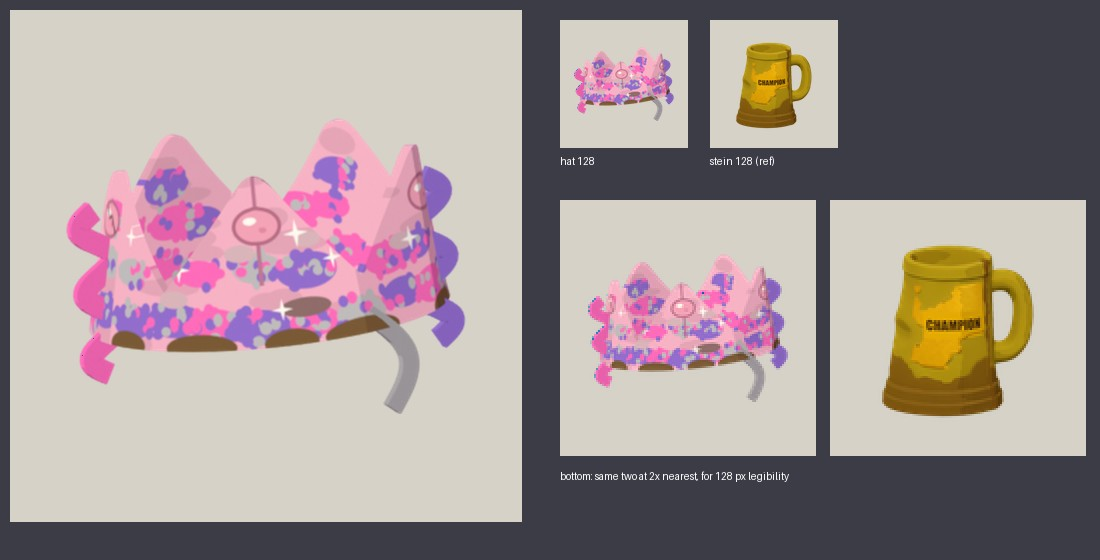
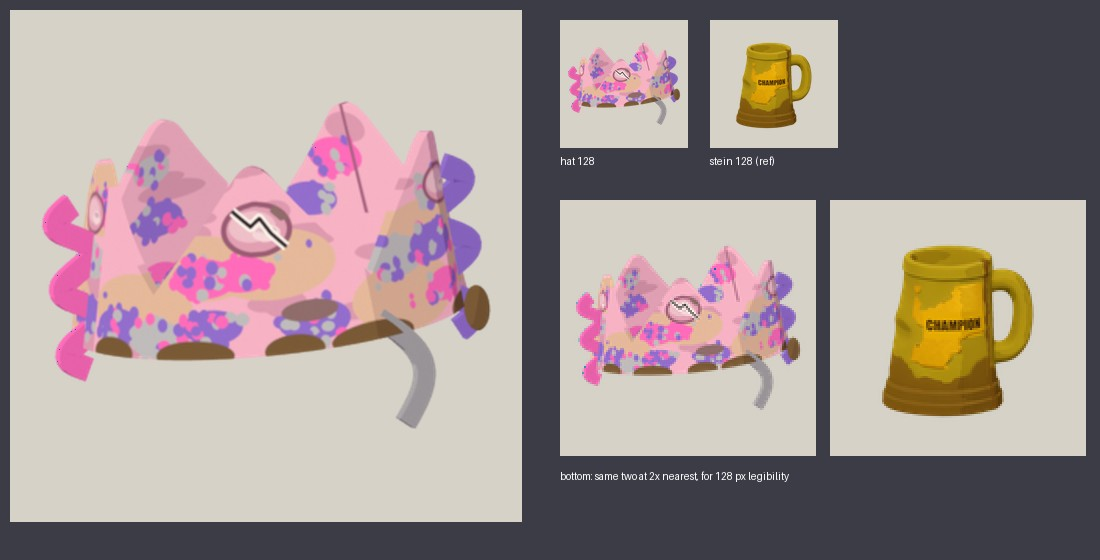
fix(asset team): Used Glitter Hat A4 round 2 (cracked front gem, bare patches, streamer stain, seam moved, no sparkles)
Claude-Session: https://claude.ai/code/session_01Rk2Ri3vAu7TBhRadSU9CbJ

Changed region(s): [[0.0309, 0.1821, 0.4636, 0.7589], [0.5255, 0.425, 0.7418, 0.7286], [0.4945, 0.0911, 0.6182, 0.2125]]

diff --git a/Tools/item3d/glitter_hat_paint.py b/Tools/item3d/glitter_hat_paint.py
@@ -8,7 +8,7 @@ from PIL import Image, ImageDraw, ImageFilter
 
 W, H, SS = 2048, 320, 2
 ZTOP, BASE, AMP, P0 = 0.46, 0.12, 0.34, -118.0
-PINK, GREY_PINK, GLUE = "#F7B6D2", "#E5A9C3", "#D9B9C6"
+PINK, GREY_PINK, GLUE = "#F7B6D2", "#DE9DBB", "#E6BDA6"
 MAG, PUR, SIL = "#FF6EC7", "#9370DB", "#C0C0C8"
 GEM, GEM_DK, STAIN, DARK = "#F4A7C3", "#B8708F", "#7A5C3A", "#8F6F72"
 random.seed(11)
@@ -51,10 +51,21 @@ cyc = [MAG, PUR, SIL, MAG, PUR, SIL, PUR, MAG]
 n = 0
 for deg in range(-205, 160, 17):
     for z in (0.07, 0.20, 0.33):
-        if z + 0.06 > height(deg) or random.random() < 0.22:
+        if z + 0.06 > height(deg) or random.random() < 0.5:
             continue
         clumps.append((deg + random.uniform(-4, 4), z + random.uniform(-0.02, 0.02), random.uniform(50, 72), cyc[n % 8]))
         n += 1
+# large dull bare areas where the glitter flaked off: matte glue-yellowed pink, about 40% of the front
+BARE = []
+for deg in range(-205, -20, 22):
+    for z in (0.10, 0.24, 0.36):
+        if z + 0.05 < height(deg) and random.random() < 0.7:
+            BARE.append((deg + random.uniform(-6, 6), z + random.uniform(-0.03, 0.03), random.uniform(75, 125)))
+for deg, z, rx in BARE:
+    ell(X(deg), Y(z), rx, rx * 0.5, GLUE)
+for deg, z, rx in BARE:                                   # stray flecks left behind
+    for _ in range(4):
+        ell(X(deg) + random.uniform(-rx, rx) * 0.8, Y(z) + random.uniform(-rx, rx) * 0.3, random.uniform(5, 8), random.uniform(5, 8), random.choice([MAG, PUR, SIL]))
 for deg, z, rx, col in clumps:
     cx, cy = X(deg), Y(z)
     ry = rx * 0.55
@@ -63,41 +74,34 @@ for deg, z, rx, col in clumps:
         a = random.uniform(0, 6.283); rr = random.random() ** 0.6
         px, py = cx + math.cos(a) * rx * 1.05 * rr, cy + math.sin(a) * ry * 1.05 * rr
         ell(px, py, random.uniform(8, 12), random.uniform(8, 12), random.choice([MAG, PUR, SIL, col, col]))
-# bare worn patches (glue showing)
-for deg, z, rx in ((-125, 0.26, 40), (-100, 0.28, 35), (-62, 0.22, 40), (-24, 0.18, 35), (-150, 0.14, 40)):
-    ell(X(deg), Y(z), rx * 0.8, rx * 0.4, GLUE)
 # dark patch where glitter flaked off
 ell(X(-104), Y(0.10), 50, 18, DARK)
 # sweat stains along the band bottom
 for deg, rx in ((-140, 70), (-110, 50), (-85, 80), (-40, 60), (-170, 50), (60, 120), (120, 90)):
     ell(X(deg), Y(0.01), rx, 26, STAIN)
-# mould seam down the centre of one point (front point), a dark thin line
-d.rectangle([S(X(P0) - 4), S(Y(0.46)), S(X(P0) + 4), S(Y(0.17))], fill="#C07A9D")
+# mould seam down the centre of a side point (index +2, right-back), dark thin line
+d.rectangle([S(X(P0 + 144) - 4), S(Y(0.46)), S(X(P0 + 144) + 4), S(Y(0.17))], fill="#A8668A")
 
 
-def gem(deg, z, cracked=False):
+def gem(deg, z, big=False, cracked=False):
     cx, cy = X(deg), Y(z)
-    ell(cx, cy, 52, 36, GEM_DK)
-    ell(cx, cy, 44, 29, GEM)
-    ell(cx - 14, cy - 10, 14, 7, "#FFFFFF")
-    ell(cx + 12, cy + 8, 8, 5, "#E58BB0")                                               # fingerprint smudge
+    k = 1.3 if big else 1.0
+    ell(cx, cy, 52 * k, 36 * k, "#9A5E7C")
+    ell(cx, cy, 44 * k, 29 * k, "#E3A3BF")                                           # duller cloudy pink
+    ell(cx - 6 * k, cy - 4 * k, 34 * k, 20 * k, "#EFC4D6")                           # milky overlay
+    ell(cx + 14 * k, cy + 6 * k, 20 * k, 11 * k, "#F6DCE7")                          # fingerprint smear
+    for r in (6, 11, 16):
+        d.arc([S(cx + (14 - r) * k), S(cy + (6 - r * 0.5) * k), S(cx + (14 + r) * k), S(cy + (6 + r * 0.5) * k)], 200, 340, fill="#C99AB2", width=S(2))
     if cracked:
-        d.line([S(cx - 30), S(cy - 22), S(cx - 4), S(cy), S(cx + 8), S(cy - 8), S(cx + 34), S(cy + 22)], fill="#4A2A3A", width=S(5))
+        pts = [cx - 34 * k, cy - 26 * k, cx - 8 * k, cy - 4 * k, cx + 6 * k, cy - 14 * k, cx + 20 * k, cy + 6 * k, cx + 40 * k, cy + 26 * k]
+        d.line([S(v) for v in pts], fill="#FFFFFF", width=S(17), joint="curve")
+        d.line([S(v) for v in pts], fill="#2A1020", width=S(7), joint="curve")
+        d.polygon([S(cx + 30 * k), S(cy - 30 * k), S(cx + 50 * k), S(cy - 10 * k), S(cx + 36 * k), S(cy - 8 * k), S(cx + 22 * k), S(cy - 22 * k)], fill="#8F6F72")  # chipped facet
 
 
-gem(P0, 0.33)
-gem(P0 - 72, 0.33, True)
+gem(P0 - 72, 0.33)
 gem(P0 + 72, 0.33)
-
-
-def sparkle(cx, cy, r):
-    d.polygon([S(cx), S(cy - r), S(cx + r * 0.18), S(cy - r * 0.18), S(cx + r), S(cy), S(cx + r * 0.18), S(cy + r * 0.18),
-               S(cx), S(cy + r), S(cx - r * 0.18), S(cy + r * 0.18), S(cx - r), S(cy), S(cx - r * 0.18), S(cy - r * 0.18)], fill="#FFFFFF")
-
-
-for deg, z, r in ((-128, 0.44, 22), (-104, 0.30, 26), (-84, 0.34, 20), (-148, 0.22, 24), (-58, 0.22, 24), (-36, 0.12, 20),
-                  (-172, 0.30, 20), (-112, 0.10, 20), (-20, 0.36, 18), (-92, 0.22, 20)):
-    sparkle(X(deg), Y(z), r)
+gem(P0, 0.31, big=True, cracked=True)
 img = img.resize((W, H), Image.LANCZOS)
 img.save(sys.argv[1])
 print("painted", sys.argv[1])

diff --git a/Tools/item3d/glitter_hat.py b/Tools/item3d/glitter_hat.py
@@ -77,12 +77,12 @@ def strip(path, w, th, name):
     return ob
 
 
-def curl(tip, side, L=0.46, a=0.05, n=2.5, steps=70):
+def curl(tip, side, L=0.42, a=0.05, n=2.5, steps=70):
     pts = []
     for i in range(steps + 1):
         s = i / steps
         ph = 2 * math.pi * n * s
-        pts.append((tip[0] + side * (0.08 + a * math.sin(ph)), tip[1], tip[2] - 0.03 - L * s - 0.0))
+        pts.append((tip[0] + side * (0.09 + a * math.sin(ph)), tip[1], tip[2] - 0.03 - L * s - 0.0))
     return pts
 
 
@@ -90,7 +90,11 @@ for k, col, side in ((-1, "FF6EC7", -1), (1, "9370DB", 1)):          # flank poi
     ang = math.radians(P0 + 72 * k)
     r = r_out(ZTOP)
     tip = (r * math.cos(ang), r * math.sin(ang) + math.sin(ang) * 0.03, BASE + AMP * 0.80)
-    pm.reg(strip(curl(tip, side), 0.06, 0.024, "streamer"), col)
+    path = curl(tip, side)
+    pm.reg(strip(path, 0.06, 0.024, "streamer"), col)
+    if col == "9370DB":                                                 # dark brown stain near the purple streamer's tip
+        q = path[-9]
+        pm.reg(pm.prim("sphere", loc=(q[0], q[1] - 0.012, q[2]), scale=(1.0, 0.3, 1.6), r=0.036), "7A5C3A")
 
 ang = math.radians(P0 + 36)                                           # elastic: right front valley, hangs below the rim, stretched
 ex, ey = 0.455 * math.cos(ang), 0.455 * math.sin(ang) - 0.02
